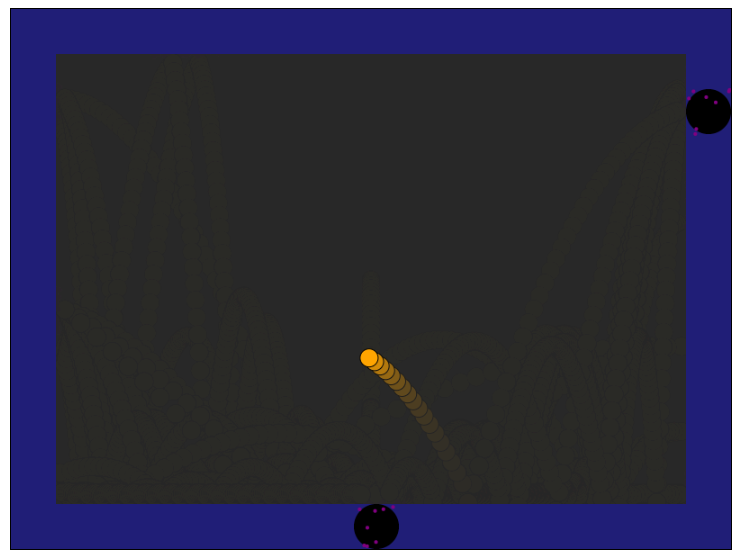
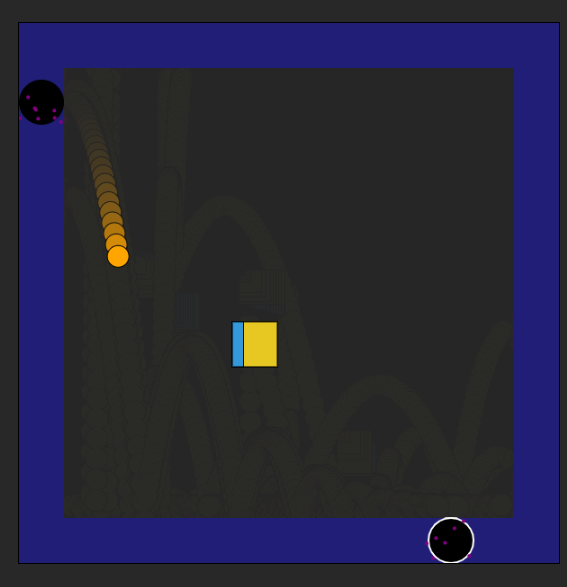
update readme

Changed region(s): [[0.0, 0.0, 1.0, 1.0], [0.3898, 0.5474, 0.5697, 0.7603], [0.1499, 0.2737, 0.2399, 0.4562]]

diff --git a/README.md b/README.md
@@ -1,5 +1,6 @@
-# Portal Basketball
+# Portal Game
 Toque ou clique nos muros para criar portais.  
+Encoste no bloco para pontuar
 
 ![alt text](https://github.com/abac-axi/portals/blob/main/game.png?raw=true)
 
